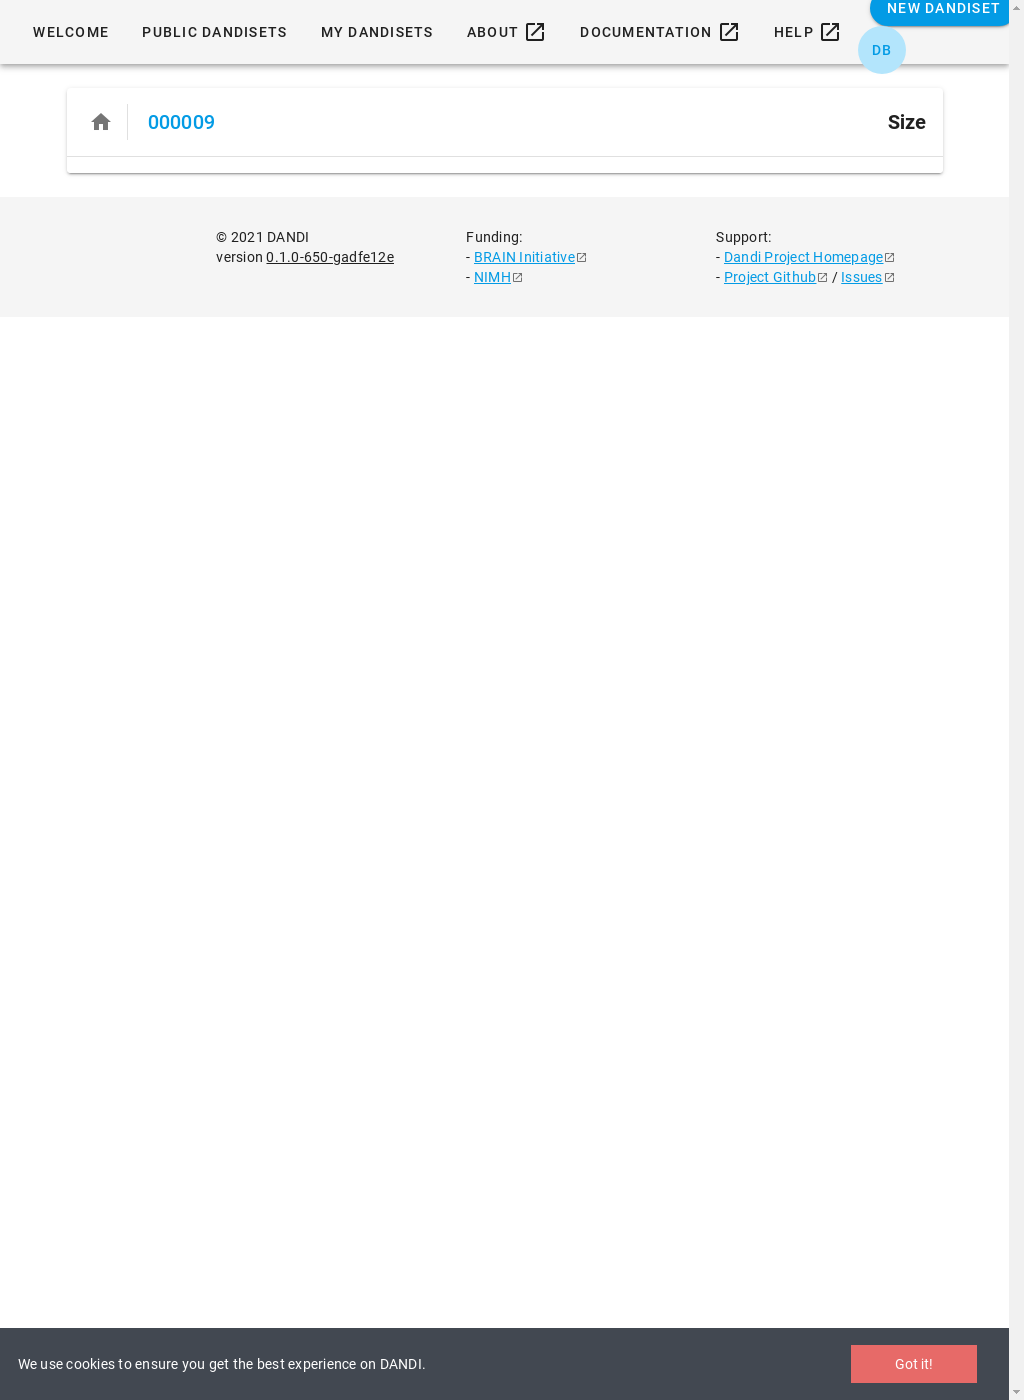
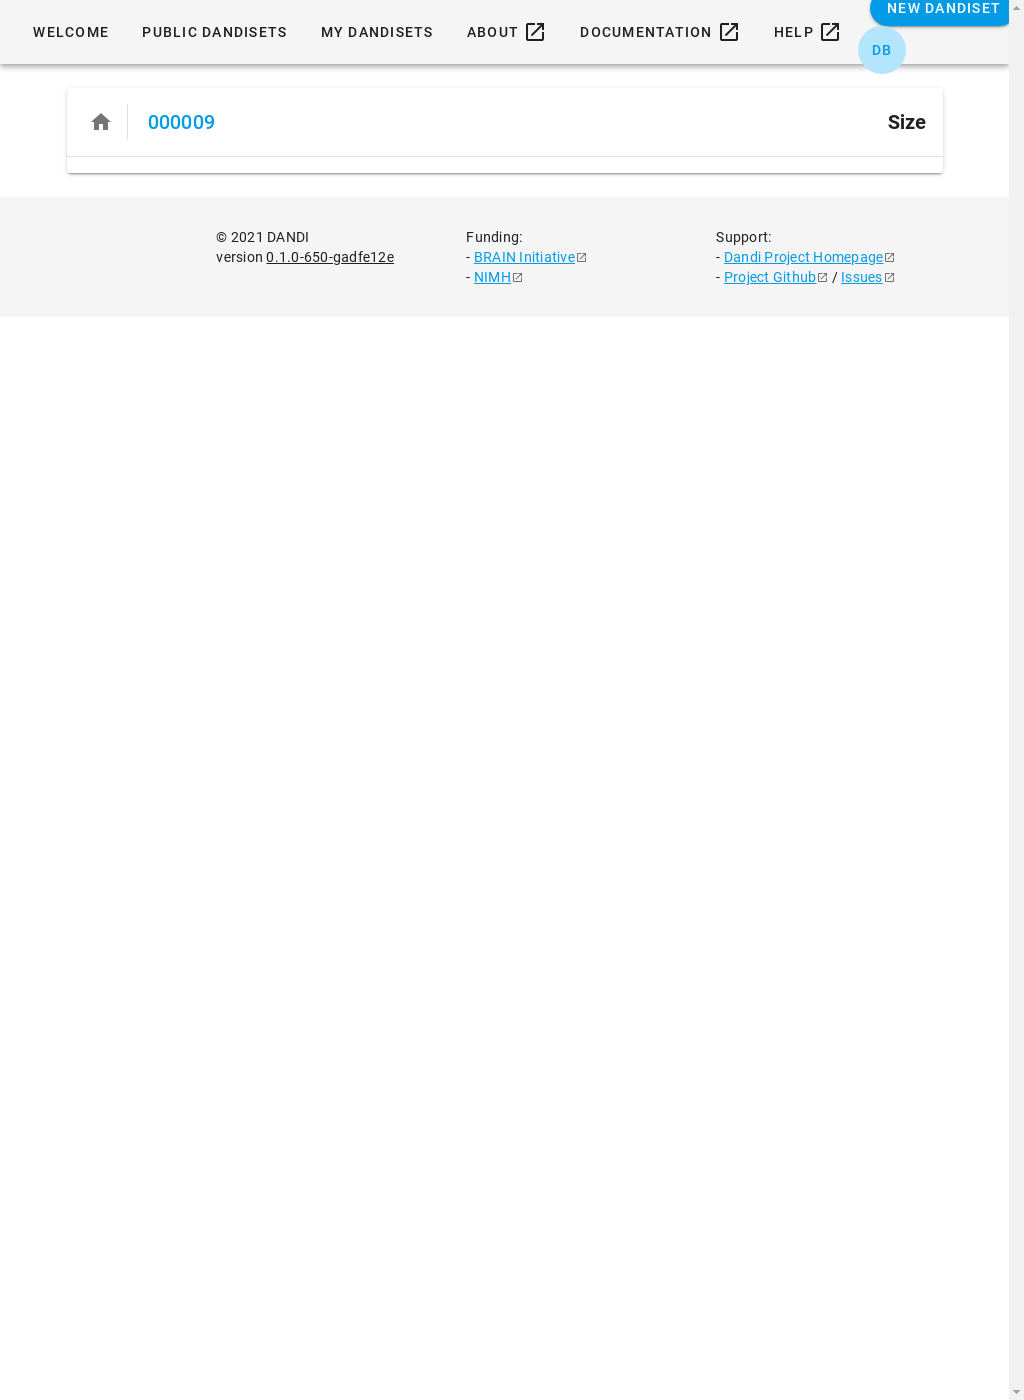
Automatically update webshots

Changed region(s): [[0.0, 0.9214, 1.0, 1.0]]

diff --git a/README.md b/README.md
@@ -1,109 +1,109 @@
 | Page | Min Time | Mean ± StdDev | Max Time | Errors |
 | --- | --- | --- | --- | --- |
-| landing | 0.02s ([000025](#000025)) | 0.04s ± 0.05s | 0.24s ([000001](#000001)) | — |
-| edit-metadata | 1.14s ([000016](#000016)) | 1.61s ± 1.23s | 8.75s ([000032](#000032)) | — |
-| view-data | 0.02s ([000037](#000037)) | 0.10s ± 0.10s | 0.43s ([000170](#000170)) | — |
+| landing | 0.02s ([000021](#000021)) | 0.04s ± 0.05s | 0.22s ([000001](#000001)) | — |
+| edit-metadata | 1.11s ([000016](#000016)) | 1.61s ± 1.23s | 8.80s ([000032](#000032)) | — |
+| view-data | 0.02s ([000009](#000009)) | 0.10s ± 0.09s | 0.48s ([000025](#000025)) | — |
 
 
 ### 000001
 
-| t=0.24 [Go to page](https://gui-staging.dandiarchive.org/#/dandiset/000001) | t=1.62 Edit Metadata | t=0.12 [Go to page](https://gui-staging.dandiarchive.org/#/dandiset/000001/draft/files) |
+| t=0.22 [Go to page](https://gui-staging.dandiarchive.org/#/dandiset/000001) | t=1.56 Edit Metadata | t=0.13 [Go to page](https://gui-staging.dandiarchive.org/#/dandiset/000001/draft/files) |
 | --- | --- | --- |
 | ![](000001/landing.png) | ![](000001/edit-metadata.png) | ![](000001/view-data.png) |
 
 ### 000002
 
-| t=0.02 [Go to page](https://gui-staging.dandiarchive.org/#/dandiset/000002) | t=1.38 Edit Metadata | t=0.12 [Go to page](https://gui-staging.dandiarchive.org/#/dandiset/000002/draft/files) |
+| t=0.02 [Go to page](https://gui-staging.dandiarchive.org/#/dandiset/000002) | t=1.34 Edit Metadata | t=0.13 [Go to page](https://gui-staging.dandiarchive.org/#/dandiset/000002/draft/files) |
 | --- | --- | --- |
 | ![](000002/landing.png) | ![](000002/edit-metadata.png) | ![](000002/view-data.png) |
 
 ### 000003
 
-| t=0.02 [Go to page](https://gui-staging.dandiarchive.org/#/dandiset/000003) | t=1.29 Edit Metadata | t=0.03 [Go to page](https://gui-staging.dandiarchive.org/#/dandiset/000003/draft/files) |
+| t=0.02 [Go to page](https://gui-staging.dandiarchive.org/#/dandiset/000003) | t=1.29 Edit Metadata | t=0.12 [Go to page](https://gui-staging.dandiarchive.org/#/dandiset/000003/draft/files) |
 | --- | --- | --- |
 | ![](000003/landing.png) | ![](000003/edit-metadata.png) | ![](000003/view-data.png) |
 
 ### 000004
 
-| t=0.02 [Go to page](https://gui-staging.dandiarchive.org/#/dandiset/000004) | t=1.28 Edit Metadata | t=0.12 [Go to page](https://gui-staging.dandiarchive.org/#/dandiset/000004/draft/files) |
+| t=0.02 [Go to page](https://gui-staging.dandiarchive.org/#/dandiset/000004) | t=1.30 Edit Metadata | t=0.12 [Go to page](https://gui-staging.dandiarchive.org/#/dandiset/000004/draft/files) |
 | --- | --- | --- |
 | ![](000004/landing.png) | ![](000004/edit-metadata.png) | ![](000004/view-data.png) |
 
 ### 000005
 
-| t=0.02 [Go to page](https://gui-staging.dandiarchive.org/#/dandiset/000005) | t=1.31 Edit Metadata | t=0.03 [Go to page](https://gui-staging.dandiarchive.org/#/dandiset/000005/draft/files) |
+| t=0.10 [Go to page](https://gui-staging.dandiarchive.org/#/dandiset/000005) | t=1.29 Edit Metadata | t=0.03 [Go to page](https://gui-staging.dandiarchive.org/#/dandiset/000005/draft/files) |
 | --- | --- | --- |
 | ![](000005/landing.png) | ![](000005/edit-metadata.png) | ![](000005/view-data.png) |
 
 ### 000006
 
-| t=0.02 [Go to page](https://gui-staging.dandiarchive.org/#/dandiset/000006) | t=1.34 Edit Metadata | t=0.03 [Go to page](https://gui-staging.dandiarchive.org/#/dandiset/000006/draft/files) |
+| t=0.02 [Go to page](https://gui-staging.dandiarchive.org/#/dandiset/000006) | t=1.31 Edit Metadata | t=0.12 [Go to page](https://gui-staging.dandiarchive.org/#/dandiset/000006/draft/files) |
 | --- | --- | --- |
 | ![](000006/landing.png) | ![](000006/edit-metadata.png) | ![](000006/view-data.png) |
 
 ### 000007
 
-| t=0.03 [Go to page](https://gui-staging.dandiarchive.org/#/dandiset/000007) | t=1.29 Edit Metadata | t=0.12 [Go to page](https://gui-staging.dandiarchive.org/#/dandiset/000007/draft/files) |
+| t=0.02 [Go to page](https://gui-staging.dandiarchive.org/#/dandiset/000007) | t=1.32 Edit Metadata | t=0.10 [Go to page](https://gui-staging.dandiarchive.org/#/dandiset/000007/draft/files) |
 | --- | --- | --- |
 | ![](000007/landing.png) | ![](000007/edit-metadata.png) | ![](000007/view-data.png) |
 
 ### 000008
 
-| t=0.12 [Go to page](https://gui-staging.dandiarchive.org/#/dandiset/000008) | t=1.30 Edit Metadata | t=0.03 [Go to page](https://gui-staging.dandiarchive.org/#/dandiset/000008/draft/files) |
+| t=0.02 [Go to page](https://gui-staging.dandiarchive.org/#/dandiset/000008) | t=1.29 Edit Metadata | t=0.02 [Go to page](https://gui-staging.dandiarchive.org/#/dandiset/000008/draft/files) |
 | --- | --- | --- |
 | ![](000008/landing.png) | ![](000008/edit-metadata.png) | ![](000008/view-data.png) |
 
 ### 000009
 
-| t=0.02 [Go to page](https://gui-staging.dandiarchive.org/#/dandiset/000009) | t=1.35 Edit Metadata | t=0.03 [Go to page](https://gui-staging.dandiarchive.org/#/dandiset/000009/draft/files) |
+| t=0.02 [Go to page](https://gui-staging.dandiarchive.org/#/dandiset/000009) | t=1.33 Edit Metadata | t=0.02 [Go to page](https://gui-staging.dandiarchive.org/#/dandiset/000009/draft/files) |
 | --- | --- | --- |
 | ![](000009/landing.png) | ![](000009/edit-metadata.png) | ![](000009/view-data.png) |
 
 ### 000010
 
-| t=0.02 [Go to page](https://gui-staging.dandiarchive.org/#/dandiset/000010) | t=1.29 Edit Metadata | t=0.12 [Go to page](https://gui-staging.dandiarchive.org/#/dandiset/000010/draft/files) |
+| t=0.02 [Go to page](https://gui-staging.dandiarchive.org/#/dandiset/000010) | t=1.33 Edit Metadata | t=0.03 [Go to page](https://gui-staging.dandiarchive.org/#/dandiset/000010/draft/files) |
 | --- | --- | --- |
 | ![](000010/landing.png) | ![](000010/edit-metadata.png) | ![](000010/view-data.png) |
 
 ### 000011
 
-| t=0.02 [Go to page](https://gui-staging.dandiarchive.org/#/dandiset/000011) | t=1.30 Edit Metadata | t=0.12 [Go to page](https://gui-staging.dandiarchive.org/#/dandiset/000011/draft/files) |
+| t=0.02 [Go to page](https://gui-staging.dandiarchive.org/#/dandiset/000011) | t=1.32 Edit Metadata | t=0.10 [Go to page](https://gui-staging.dandiarchive.org/#/dandiset/000011/draft/files) |
 | --- | --- | --- |
 | ![](000011/landing.png) | ![](000011/edit-metadata.png) | ![](000011/view-data.png) |
 
 ### 000012
 
-| t=0.02 [Go to page](https://gui-staging.dandiarchive.org/#/dandiset/000012) | t=1.20 Edit Metadata | t=0.42 [Go to page](https://gui-staging.dandiarchive.org/#/dandiset/000012/draft/files) |
+| t=0.02 [Go to page](https://gui-staging.dandiarchive.org/#/dandiset/000012) | t=1.22 Edit Metadata | t=0.02 [Go to page](https://gui-staging.dandiarchive.org/#/dandiset/000012/draft/files) |
 | --- | --- | --- |
 | ![](000012/landing.png) | ![](000012/edit-metadata.png) | ![](000012/view-data.png) |
 
 ### 000013
 
-| t=0.02 [Go to page](https://gui-staging.dandiarchive.org/#/dandiset/000013) | t=1.37 Edit Metadata | t=0.12 [Go to page](https://gui-staging.dandiarchive.org/#/dandiset/000013/draft/files) |
+| t=0.02 [Go to page](https://gui-staging.dandiarchive.org/#/dandiset/000013) | t=1.40 Edit Metadata | t=0.03 [Go to page](https://gui-staging.dandiarchive.org/#/dandiset/000013/draft/files) |
 | --- | --- | --- |
 | ![](000013/landing.png) | ![](000013/edit-metadata.png) | ![](000013/view-data.png) |
 
 ### 000014
 
-| t=0.02 [Go to page](https://gui-staging.dandiarchive.org/#/dandiset/000014) | t=1.30 Edit Metadata | t=0.03 [Go to page](https://gui-staging.dandiarchive.org/#/dandiset/000014/draft/files) |
+| t=0.12 [Go to page](https://gui-staging.dandiarchive.org/#/dandiset/000014) | t=1.43 Edit Metadata | t=0.02 [Go to page](https://gui-staging.dandiarchive.org/#/dandiset/000014/draft/files) |
 | --- | --- | --- |
 | ![](000014/landing.png) | ![](000014/edit-metadata.png) | ![](000014/view-data.png) |
 
 ### 000015
 
-| t=0.02 [Go to page](https://gui-staging.dandiarchive.org/#/dandiset/000015) | t=2.58 Edit Metadata | t=0.12 [Go to page](https://gui-staging.dandiarchive.org/#/dandiset/000015/draft/files) |
+| t=0.02 [Go to page](https://gui-staging.dandiarchive.org/#/dandiset/000015) | t=2.59 Edit Metadata | t=0.03 [Go to page](https://gui-staging.dandiarchive.org/#/dandiset/000015/draft/files) |
 | --- | --- | --- |
 | ![](000015/landing.png) | ![](000015/edit-metadata.png) | ![](000015/view-data.png) |
 
 ### 000016
 
-| t=0.10 [Go to page](https://gui-staging.dandiarchive.org/#/dandiset/000016) | t=1.14 Edit Metadata | t=0.03 [Go to page](https://gui-staging.dandiarchive.org/#/dandiset/000016/draft/files) |
+| t=0.02 [Go to page](https://gui-staging.dandiarchive.org/#/dandiset/000016) | t=1.11 Edit Metadata | t=0.12 [Go to page](https://gui-staging.dandiarchive.org/#/dandiset/000016/draft/files) |
 | --- | --- | --- |
 | ![](000016/landing.png) | ![](000016/edit-metadata.png) | ![](000016/view-data.png) |
 
 ### 000017
 
-| t=0.02 [Go to page](https://gui-staging.dandiarchive.org/#/dandiset/000017) | t=1.25 Edit Metadata | t=0.13 [Go to page](https://gui-staging.dandiarchive.org/#/dandiset/000017/draft/files) |
+| t=0.02 [Go to page](https://gui-staging.dandiarchive.org/#/dandiset/000017) | t=1.24 Edit Metadata | t=0.03 [Go to page](https://gui-staging.dandiarchive.org/#/dandiset/000017/draft/files) |
 | --- | --- | --- |
 | ![](000017/landing.png) | ![](000017/edit-metadata.png) | ![](000017/view-data.png) |
 
@@ -115,127 +115,127 @@
 
 ### 000019
 
-| t=0.02 [Go to page](https://gui-staging.dandiarchive.org/#/dandiset/000019) | t=1.40 Edit Metadata | t=0.12 [Go to page](https://gui-staging.dandiarchive.org/#/dandiset/000019/draft/files) |
+| t=0.02 [Go to page](https://gui-staging.dandiarchive.org/#/dandiset/000019) | t=1.45 Edit Metadata | t=0.10 [Go to page](https://gui-staging.dandiarchive.org/#/dandiset/000019/draft/files) |
 | --- | --- | --- |
 | ![](000019/landing.png) | ![](000019/edit-metadata.png) | ![](000019/view-data.png) |
 
 ### 000020
 
-| t=0.02 [Go to page](https://gui-staging.dandiarchive.org/#/dandiset/000020) | t=1.42 Edit Metadata | t=0.10 [Go to page](https://gui-staging.dandiarchive.org/#/dandiset/000020/draft/files) |
+| t=0.02 [Go to page](https://gui-staging.dandiarchive.org/#/dandiset/000020) | t=1.38 Edit Metadata | t=0.12 [Go to page](https://gui-staging.dandiarchive.org/#/dandiset/000020/draft/files) |
 | --- | --- | --- |
 | ![](000020/landing.png) | ![](000020/edit-metadata.png) | ![](000020/view-data.png) |
 
 ### 000021
 
-| t=0.02 [Go to page](https://gui-staging.dandiarchive.org/#/dandiset/000021) | t=1.42 Edit Metadata | t=0.12 [Go to page](https://gui-staging.dandiarchive.org/#/dandiset/000021/draft/files) |
+| t=0.02 [Go to page](https://gui-staging.dandiarchive.org/#/dandiset/000021) | t=1.46 Edit Metadata | t=0.14 [Go to page](https://gui-staging.dandiarchive.org/#/dandiset/000021/draft/files) |
 | --- | --- | --- |
 | ![](000021/landing.png) | ![](000021/edit-metadata.png) | ![](000021/view-data.png) |
 
 ### 000022
 
-| t=0.02 [Go to page](https://gui-staging.dandiarchive.org/#/dandiset/000022) | t=1.43 Edit Metadata | t=0.12 [Go to page](https://gui-staging.dandiarchive.org/#/dandiset/000022/draft/files) |
+| t=0.02 [Go to page](https://gui-staging.dandiarchive.org/#/dandiset/000022) | t=1.40 Edit Metadata | t=0.12 [Go to page](https://gui-staging.dandiarchive.org/#/dandiset/000022/draft/files) |
 | --- | --- | --- |
 | ![](000022/landing.png) | ![](000022/edit-metadata.png) | ![](000022/view-data.png) |
 
 ### 000023
 
-| t=0.02 [Go to page](https://gui-staging.dandiarchive.org/#/dandiset/000023) | t=1.40 Edit Metadata | t=0.03 [Go to page](https://gui-staging.dandiarchive.org/#/dandiset/000023/draft/files) |
+| t=0.09 [Go to page](https://gui-staging.dandiarchive.org/#/dandiset/000023) | t=1.41 Edit Metadata | t=0.02 [Go to page](https://gui-staging.dandiarchive.org/#/dandiset/000023/draft/files) |
 | --- | --- | --- |
 | ![](000023/landing.png) | ![](000023/edit-metadata.png) | ![](000023/view-data.png) |
 
 ### 000024
 
-| t=0.02 [Go to page](https://gui-staging.dandiarchive.org/#/dandiset/000024) | t=1.25 Edit Metadata | t=0.03 [Go to page](https://gui-staging.dandiarchive.org/#/dandiset/000024/draft/files) |
+| t=0.02 [Go to page](https://gui-staging.dandiarchive.org/#/dandiset/000024) | t=1.24 Edit Metadata | t=0.12 [Go to page](https://gui-staging.dandiarchive.org/#/dandiset/000024/draft/files) |
 | --- | --- | --- |
 | ![](000024/landing.png) | ![](000024/edit-metadata.png) | ![](000024/view-data.png) |
 
 ### 000025
 
-| t=0.02 [Go to page](https://gui-staging.dandiarchive.org/#/dandiset/000025) | t=1.36 Edit Metadata | t=0.42 [Go to page](https://gui-staging.dandiarchive.org/#/dandiset/000025/draft/files) |
+| t=0.02 [Go to page](https://gui-staging.dandiarchive.org/#/dandiset/000025) | t=1.37 Edit Metadata | t=0.48 [Go to page](https://gui-staging.dandiarchive.org/#/dandiset/000025/draft/files) |
 | --- | --- | --- |
 | ![](000025/landing.png) | ![](000025/edit-metadata.png) | ![](000025/view-data.png) |
 
 ### 000026
 
-| t=0.02 [Go to page](https://gui-staging.dandiarchive.org/#/dandiset/000026) | t=1.31 Edit Metadata | t=0.03 [Go to page](https://gui-staging.dandiarchive.org/#/dandiset/000026/draft/files) |
+| t=0.02 [Go to page](https://gui-staging.dandiarchive.org/#/dandiset/000026) | t=1.29 Edit Metadata | t=0.12 [Go to page](https://gui-staging.dandiarchive.org/#/dandiset/000026/draft/files) |
 | --- | --- | --- |
 | ![](000026/landing.png) | ![](000026/edit-metadata.png) | ![](000026/view-data.png) |
 
 ### 000027
 
-| t=0.02 [Go to page](https://gui-staging.dandiarchive.org/#/dandiset/000027) | t=1.24 Edit Metadata | t=0.03 [Go to page](https://gui-staging.dandiarchive.org/#/dandiset/000027/draft/files) |
+| t=0.03 [Go to page](https://gui-staging.dandiarchive.org/#/dandiset/000027) | t=1.30 Edit Metadata | t=0.03 [Go to page](https://gui-staging.dandiarchive.org/#/dandiset/000027/draft/files) |
 | --- | --- | --- |
 | ![](000027/landing.png) | ![](000027/edit-metadata.png) | ![](000027/view-data.png) |
 
 ### 000028
 
-| t=0.17 [Go to page](https://gui-staging.dandiarchive.org/#/dandiset/000028) | t=1.28 Edit Metadata | t=0.10 [Go to page](https://gui-staging.dandiarchive.org/#/dandiset/000028/draft/files) |
+| t=0.12 [Go to page](https://gui-staging.dandiarchive.org/#/dandiset/000028) | t=1.28 Edit Metadata | t=0.10 [Go to page](https://gui-staging.dandiarchive.org/#/dandiset/000028/draft/files) |
 | --- | --- | --- |
 | ![](000028/landing.png) | ![](000028/edit-metadata.png) | ![](000028/view-data.png) |
 
 ### 000029
 
-| t=0.02 [Go to page](https://gui-staging.dandiarchive.org/#/dandiset/000029) | t=1.24 Edit Metadata | t=0.12 [Go to page](https://gui-staging.dandiarchive.org/#/dandiset/000029/draft/files) |
+| t=0.02 [Go to page](https://gui-staging.dandiarchive.org/#/dandiset/000029) | t=1.24 Edit Metadata | t=0.03 [Go to page](https://gui-staging.dandiarchive.org/#/dandiset/000029/draft/files) |
 | --- | --- | --- |
 | ![](000029/landing.png) | ![](000029/edit-metadata.png) | ![](000029/view-data.png) |
 
 ### 000030
 
-| t=0.02 [Go to page](https://gui-staging.dandiarchive.org/#/dandiset/000030) | t=3.60 Edit Metadata | t=0.03 [Go to page](https://gui-staging.dandiarchive.org/#/dandiset/000030/draft/files) |
+| t=0.02 [Go to page](https://gui-staging.dandiarchive.org/#/dandiset/000030) | t=3.57 Edit Metadata | t=0.12 [Go to page](https://gui-staging.dandiarchive.org/#/dandiset/000030/draft/files) |
 | --- | --- | --- |
 | ![](000030/landing.png) | ![](000030/edit-metadata.png) | ![](000030/view-data.png) |
 
 ### 000031
 
-| t=0.02 [Go to page](https://gui-staging.dandiarchive.org/#/dandiset/000031) | t=1.38 Edit Metadata | t=0.03 [Go to page](https://gui-staging.dandiarchive.org/#/dandiset/000031/draft/files) |
+| t=0.02 [Go to page](https://gui-staging.dandiarchive.org/#/dandiset/000031) | t=1.30 Edit Metadata | t=0.13 [Go to page](https://gui-staging.dandiarchive.org/#/dandiset/000031/draft/files) |
 | --- | --- | --- |
 | ![](000031/landing.png) | ![](000031/edit-metadata.png) | ![](000031/view-data.png) |
 
 ### 000032
 
-| t=0.19 [Go to page](https://gui-staging.dandiarchive.org/#/dandiset/000032) | t=8.75 Edit Metadata | t=0.03 [Go to page](https://gui-staging.dandiarchive.org/#/dandiset/000032/draft/files) |
+| t=0.02 [Go to page](https://gui-staging.dandiarchive.org/#/dandiset/000032) | t=8.80 Edit Metadata | t=0.12 [Go to page](https://gui-staging.dandiarchive.org/#/dandiset/000032/draft/files) |
 | --- | --- | --- |
 | ![](000032/landing.png) | ![](000032/edit-metadata.png) | ![](000032/view-data.png) |
 
 ### 000033
 
-| t=0.02 [Go to page](https://gui-staging.dandiarchive.org/#/dandiset/000033) | t=1.26 Edit Metadata | t=0.12 [Go to page](https://gui-staging.dandiarchive.org/#/dandiset/000033/draft/files) |
+| t=0.16 [Go to page](https://gui-staging.dandiarchive.org/#/dandiset/000033) | t=1.34 Edit Metadata | t=0.13 [Go to page](https://gui-staging.dandiarchive.org/#/dandiset/000033/draft/files) |
 | --- | --- | --- |
 | ![](000033/landing.png) | ![](000033/edit-metadata.png) | ![](000033/view-data.png) |
 
 ### 000035
 
-| t=0.02 [Go to page](https://gui-staging.dandiarchive.org/#/dandiset/000035) | t=1.32 Edit Metadata | t=0.03 [Go to page](https://gui-staging.dandiarchive.org/#/dandiset/000035/draft/files) |
+| t=0.02 [Go to page](https://gui-staging.dandiarchive.org/#/dandiset/000035) | t=1.30 Edit Metadata | t=0.03 [Go to page](https://gui-staging.dandiarchive.org/#/dandiset/000035/draft/files) |
 | --- | --- | --- |
 | ![](000035/landing.png) | ![](000035/edit-metadata.png) | ![](000035/view-data.png) |
 
 ### 000036
 
-| t=0.17 [Go to page](https://gui-staging.dandiarchive.org/#/dandiset/000036) | t=1.32 Edit Metadata | t=0.12 [Go to page](https://gui-staging.dandiarchive.org/#/dandiset/000036/draft/files) |
+| t=0.02 [Go to page](https://gui-staging.dandiarchive.org/#/dandiset/000036) | t=1.30 Edit Metadata | t=0.12 [Go to page](https://gui-staging.dandiarchive.org/#/dandiset/000036/draft/files) |
 | --- | --- | --- |
 | ![](000036/landing.png) | ![](000036/edit-metadata.png) | ![](000036/view-data.png) |
 
 ### 000037
 
-| t=0.02 [Go to page](https://gui-staging.dandiarchive.org/#/dandiset/000037) | t=1.26 Edit Metadata | t=0.02 [Go to page](https://gui-staging.dandiarchive.org/#/dandiset/000037/draft/files) |
+| t=0.02 [Go to page](https://gui-staging.dandiarchive.org/#/dandiset/000037) | t=1.27 Edit Metadata | t=0.02 [Go to page](https://gui-staging.dandiarchive.org/#/dandiset/000037/draft/files) |
 | --- | --- | --- |
 | ![](000037/landing.png) | ![](000037/edit-metadata.png) | ![](000037/view-data.png) |
 
 ### 000170
 
-| t=0.02 [Go to page](https://gui-staging.dandiarchive.org/#/dandiset/000170) | t=1.38 Edit Metadata | t=0.43 [Go to page](https://gui-staging.dandiarchive.org/#/dandiset/000170/draft/files) |
+| t=0.12 [Go to page](https://gui-staging.dandiarchive.org/#/dandiset/000170) | t=1.44 Edit Metadata | t=0.12 [Go to page](https://gui-staging.dandiarchive.org/#/dandiset/000170/draft/files) |
 | --- | --- | --- |
 | ![](000170/landing.png) | ![](000170/edit-metadata.png) | ![](000170/view-data.png) |
 
 ### 000211
 
-| t=0.02 [Go to page](https://gui-staging.dandiarchive.org/#/dandiset/000211) | t=1.38 Edit Metadata | t=0.03 [Go to page](https://gui-staging.dandiarchive.org/#/dandiset/000211/draft/files) |
+| t=0.02 [Go to page](https://gui-staging.dandiarchive.org/#/dandiset/000211) | t=1.37 Edit Metadata | t=0.36 [Go to page](https://gui-staging.dandiarchive.org/#/dandiset/000211/draft/files) |
 | --- | --- | --- |
 | ![](000211/landing.png) | ![](000211/edit-metadata.png) | ![](000211/view-data.png) |
 
 ### 000212
 
-| t=0.02 [Go to page](https://gui-staging.dandiarchive.org/#/dandiset/000212) | t=1.29 Edit Metadata | t=0.03 [Go to page](https://gui-staging.dandiarchive.org/#/dandiset/000212/draft/files) |
+| t=0.02 [Go to page](https://gui-staging.dandiarchive.org/#/dandiset/000212) | t=1.31 Edit Metadata | t=0.12 [Go to page](https://gui-staging.dandiarchive.org/#/dandiset/000212/draft/files) |
 | --- | --- | --- |
 | ![](000212/landing.png) | ![](000212/edit-metadata.png) | ![](000212/view-data.png) |
 
